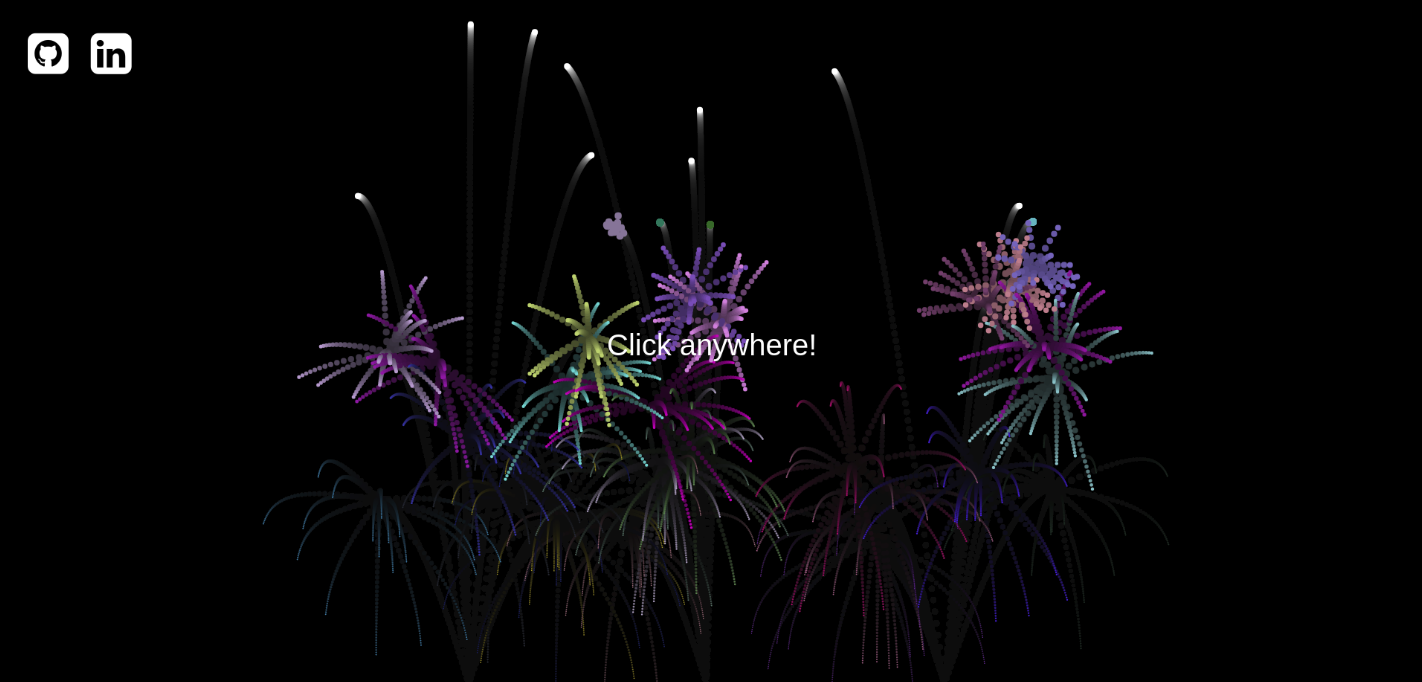
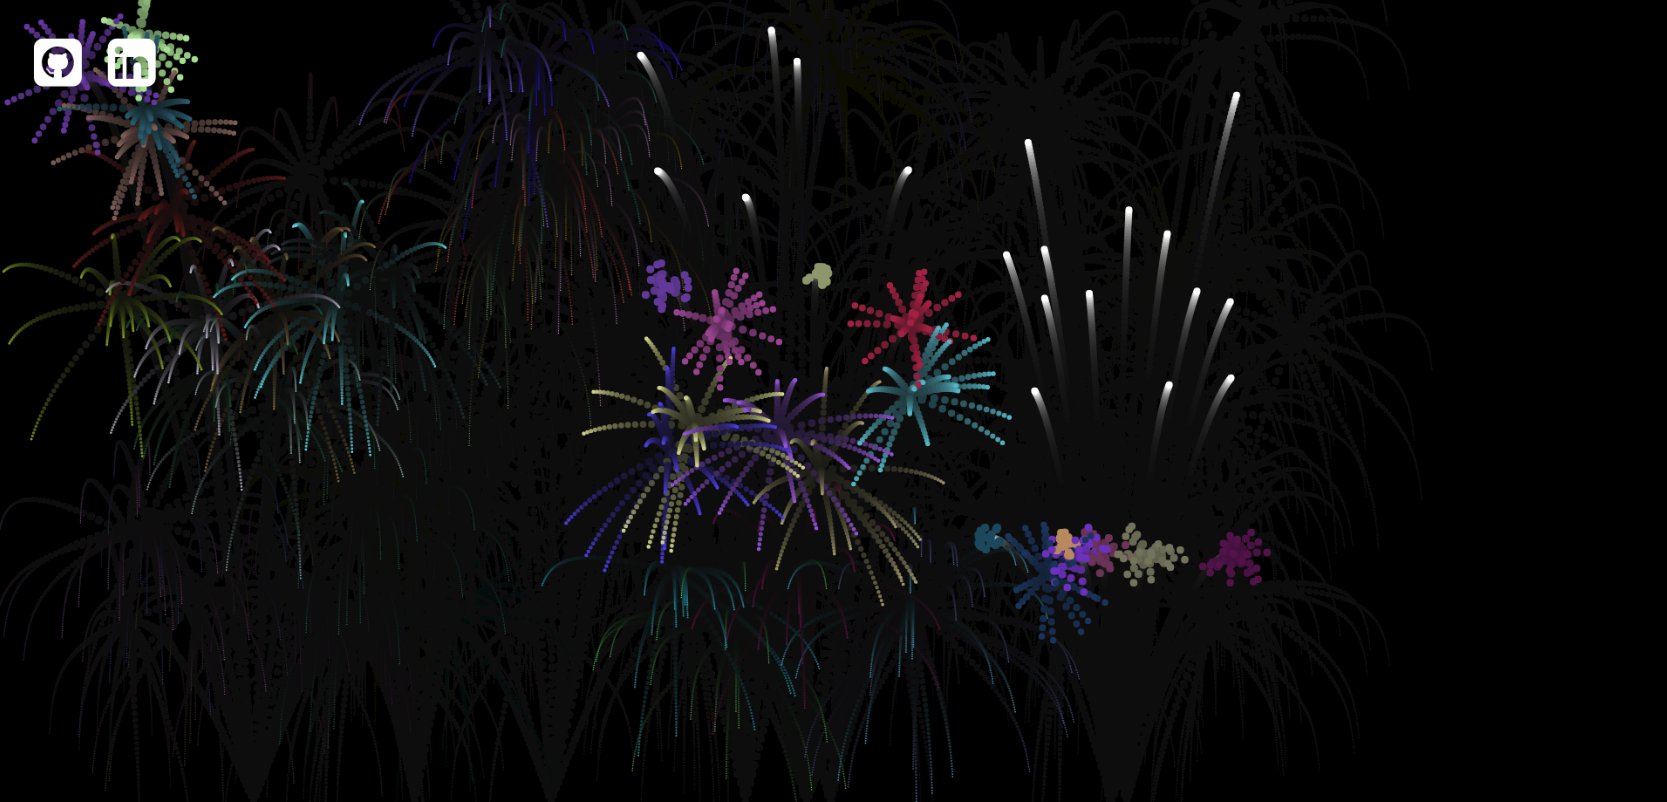
touch

diff --git a/new.js b/new.js
@@ -131,7 +131,7 @@
 	
 	fireworksArr = [];
 	clearScreen = () => {
-	  ctx.fillStyle = "rgba(0, 0, 0, .1)";
+	  ctx.fillStyle = "rgba(0, 0, 0, .05)";
 	  ctx.fillRect(0, 0, canvas.width, canvas.height);
 	  requestAnimationFrame(() => clearScreen());
 	};
@@ -151,6 +151,23 @@
 	window.setTimeout(() => {
 	  document.getElementById("fireworks-message").style.zIndex = "-1";
 	}, 3500);
+	
+	canvas.addEventListener("touchstart", function (event) {
+	  // Handle touchstart...
+	}, false);
+	
+	canvas.addEventListener("touchstart", e => {
+	  let xPos = e.clientX;
+	  let yPos = e.clientY;
+	  fireworksArr = fireworksArr.filter(firework => {
+	    return firework.exists();
+	  });
+	  for (let i = 0; i < 20; i++) {
+	    var x = new Launch(xPos, canvas.height, ctx, canvas);
+	    x.addFirework(e);
+	    x.update();
+	  }
+	}, false);
 	
 	document.addEventListener("click", e => {
 	  let xPos = e.clientX;
@@ -242,7 +259,7 @@
 	    this.velX = Math.cos(angle) * speed + 0.5;
 	    this.velY = Math.sin(angle) * speed;
 	    this.radius = radius;
-	    this.size = 5;
+	    this.size = 2;
 	    this.shrink = .950;
 	    this.color = color;
 	  }

diff --git a/launch.js b/launch.js
@@ -97,7 +97,7 @@ window.addEventListener("resize", () => {
 
 fireworksArr = []
 clearScreen = () =>{
-  ctx.fillStyle = "rgba(0, 0, 0, .1)";
+  ctx.fillStyle = "rgba(0, 0, 0, .05)";
   ctx.fillRect(0,0, canvas.width, canvas.height)
   requestAnimationFrame(() => clearScreen())
 }
@@ -117,6 +117,24 @@ for (let i =0; i < 13; i++){
 window.setTimeout(() =>{
   document.getElementById("fireworks-message").style.zIndex="-1"
 }, 3500)
+
+canvas.addEventListener("touchstart", function(event) {
+    // Handle touchstart...
+}, false);
+
+canvas.addEventListener("touchstart",
+(e) => {
+  let xPos = e.clientX;
+  let yPos= e.clientY;
+  fireworksArr = fireworksArr.filter( firework => {
+    return firework.exists()
+  })
+  for (let i = 0; i < 20; i++){
+    var x = new Launch(xPos, canvas.height, ctx, canvas)
+      x.addFirework(e)
+      x.update()
+  }
+}, false)
 
 document.addEventListener("click",
 (e) => {

diff --git a/particle.js b/particle.js
@@ -13,7 +13,7 @@ class Particle {
     this.velX = Math.cos(angle) * speed + 0.5;
     this.velY = Math.sin(angle) * speed;
     this.radius = radius
-    this.size = 5
+    this.size = 2
     this.shrink = .950
     this.color = color
   }
